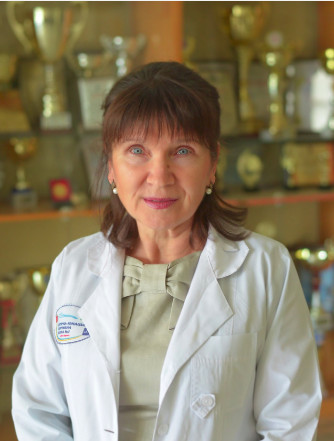
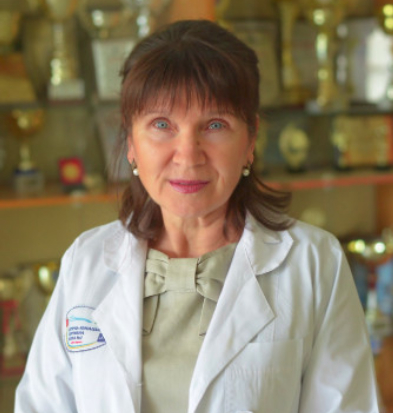
photoFix

diff --git a/public/image.js b/public/image.js
@@ -1,0 +1,15 @@
+const Jimp = require("jimp");
+const fs = require("fs/promises");
+async function main() {
+  try {
+    const data = await fs.readdir("./medical");
+    data.forEach(async (item) => {
+      const file = await Jimp.read("./medical/" + item);
+      file.cover(393, 413).write("./medical/" + item);
+    });
+  } catch (err) {
+    console.log(err);
+  }
+}
+
+main();
